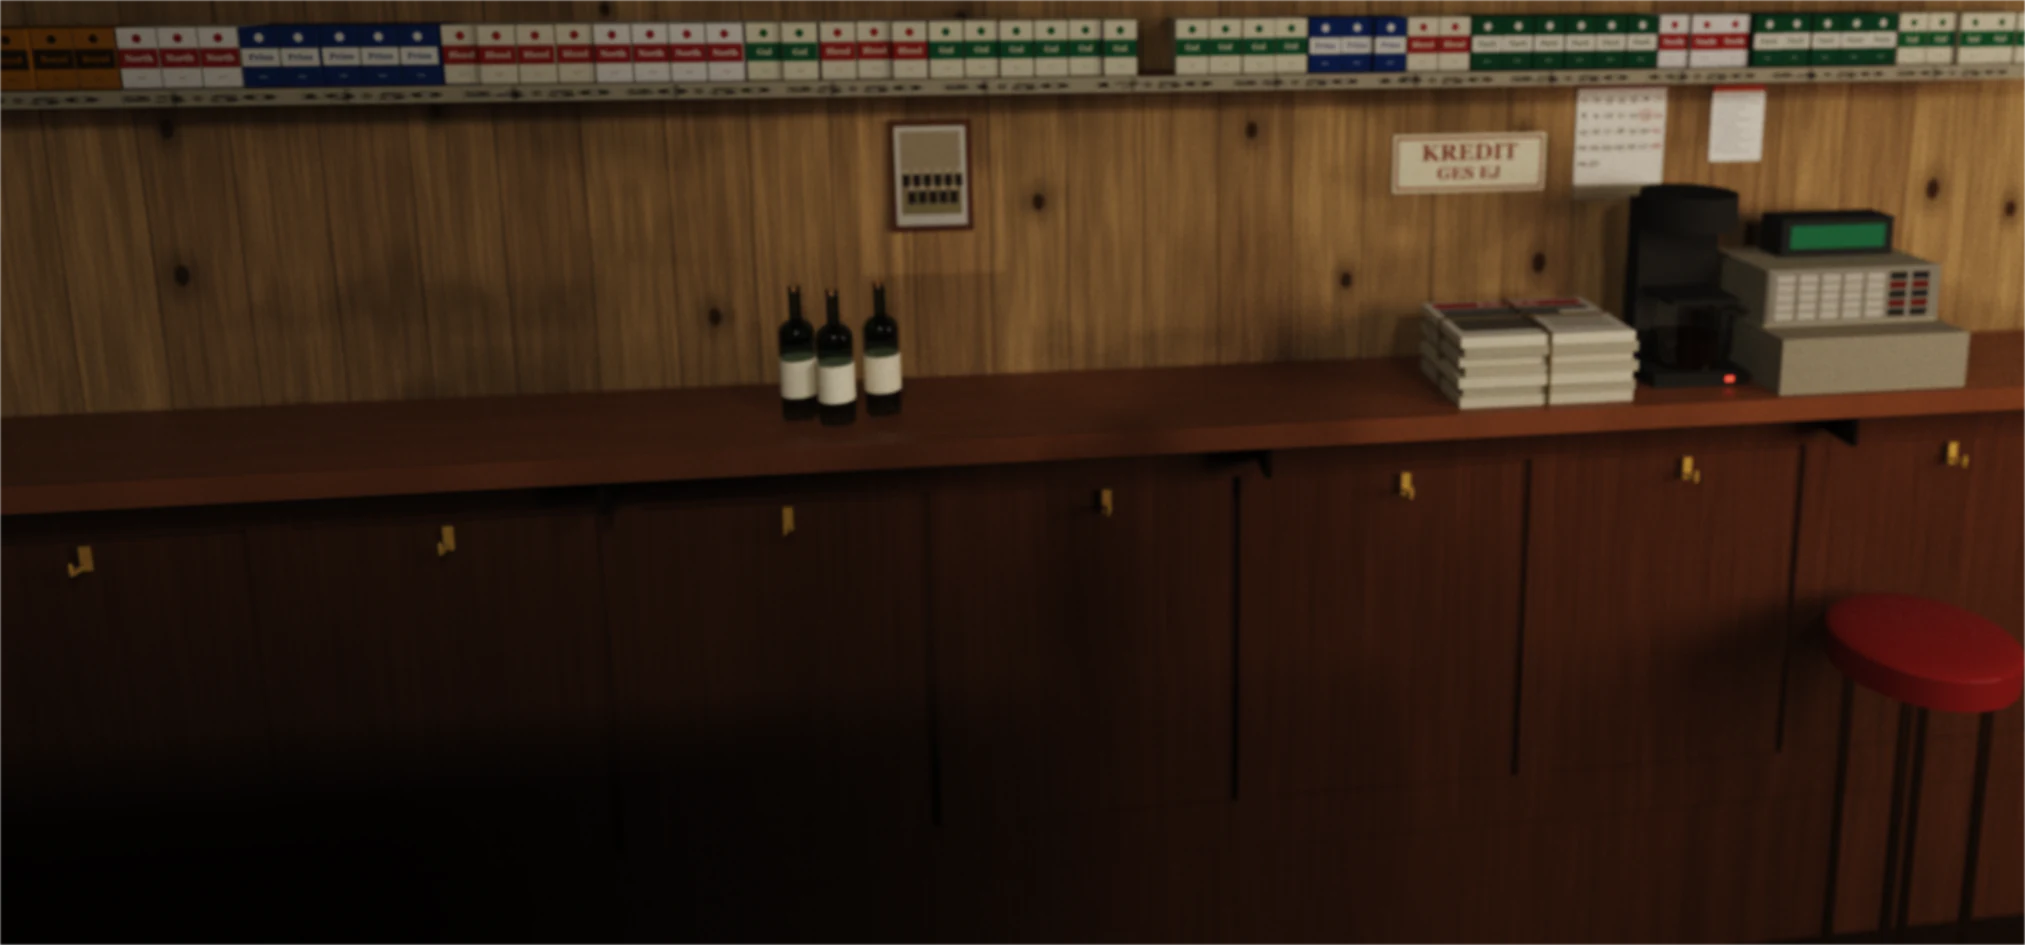
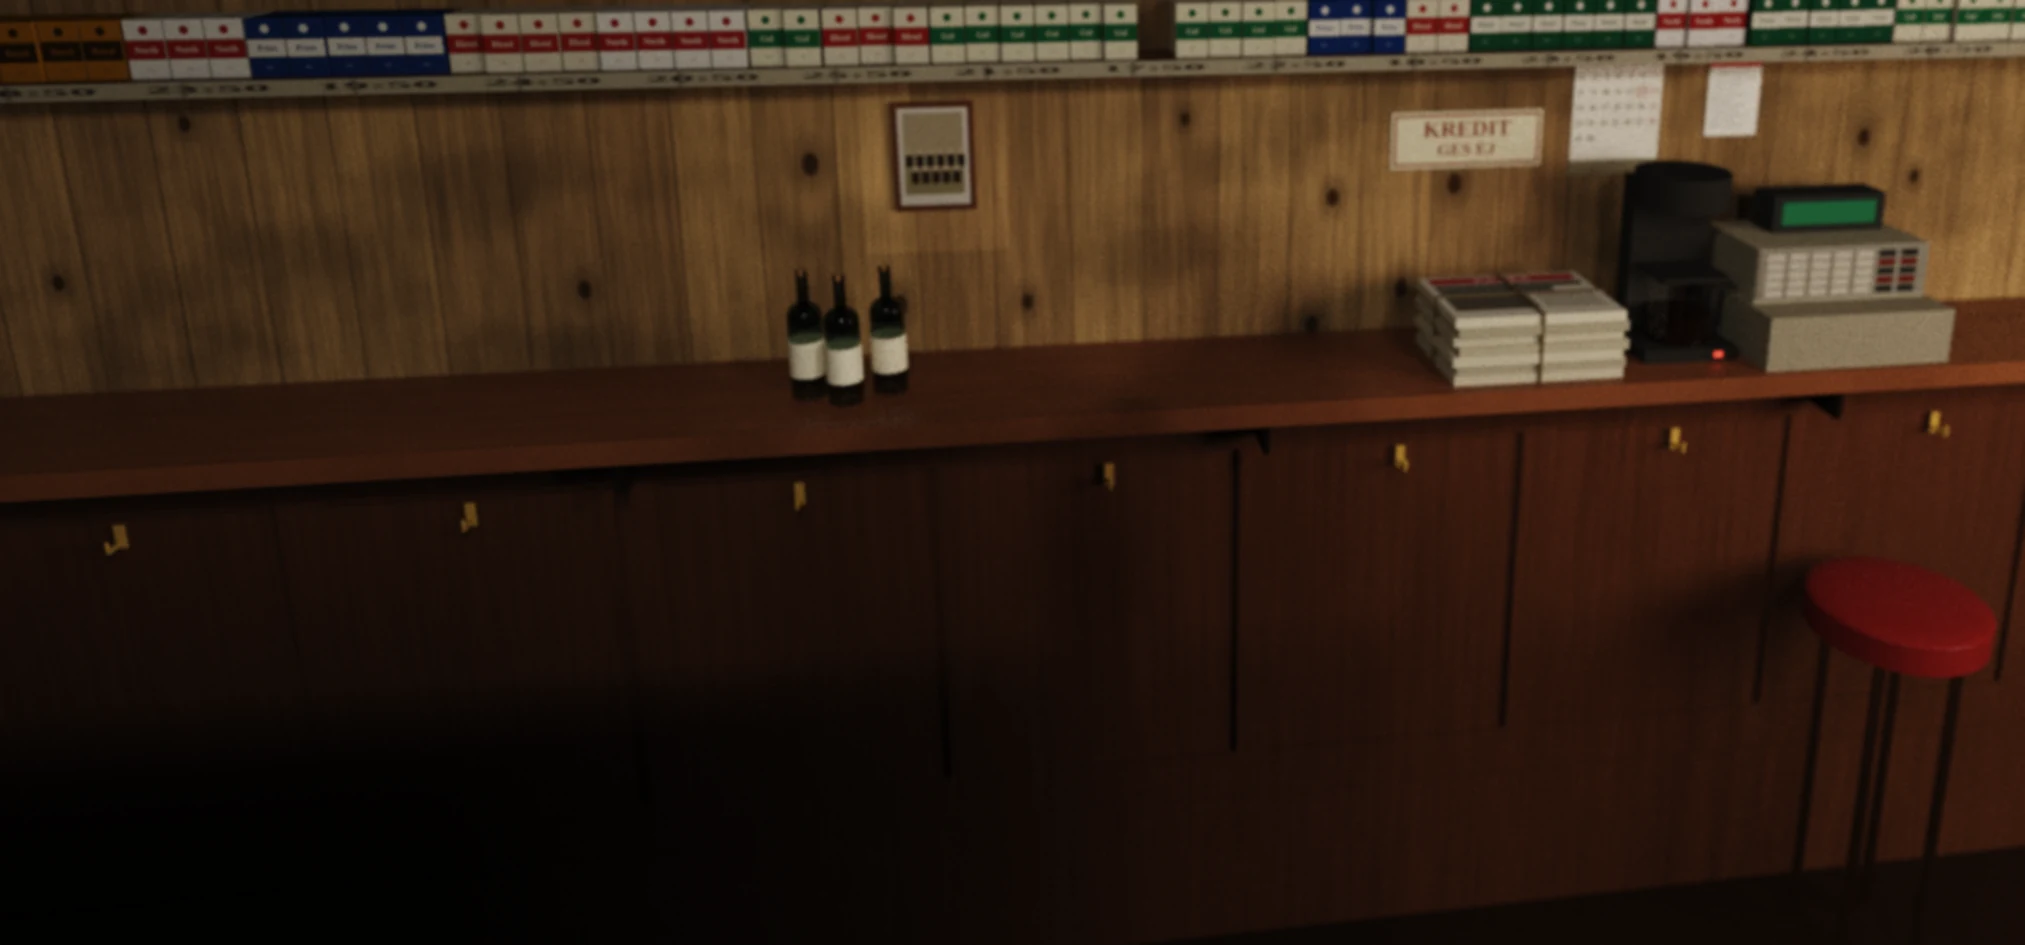
Väggen bakom Hasse Backe ombakad för den högre kameran, och samma kavajton i rummet
Väggbilderna (bred, med och utan lysrör och dagsljus, och på höjden med lysrör och dagsljus) är
bakade om från kameran som nu står högre och lutar 14°. Den sista, på höjden utan lysrör, följer
i en egen commit.

I rummet ses ärmarnas sida bort från barens lampor, och kavajen blev nästan svart. Ärmens tyg får
mer ljus där (bord.tyg, 1,35 mot 1 i baren), så att det är samma koksgråa kavaj som framifrån, och
underarmarna är lika vida som i baren.

Claude-Session: https://claude.ai/code/session_016CdqmAQxAUfby7NMxRQL4S

diff --git a/public/rum-hasse-arm.js b/public/rum-hasse-arm.js
@@ -91,6 +91,9 @@ bool underBord(vec3 w) {
 `;
 // (utan disk döljs ingenting, och det är rummets ljus utan baren)
 const BUTIK_AV = { value: 0 };
+// Kavajens tyg i ljuset (uTyg i ARM_F): 1 i baren. Från rummet ses ärmarnas sida bort från lamporna, och då
+// sätter bord.tyg tonen, så att det är samma gråa kavaj som framifrån.
+const TYG = { value: 1 };
 // Ljuset räknas mot figurens kamera (VY). Ses samma sak från ett annat håll, som hans händer från rummet
 // (rum-hasse-hand.js), ger bord.vy riktningen mot det ögat, så att kantljuset hamnar där det ska.
 const VY_RAD = /const vec3 VY = vec3\([^)]*\);/;
@@ -415,6 +418,7 @@ varying vec2 vUv; varying vec3 vN, vN0, vW; varying float vS, vI, vVeck;
 void main() { vUv = uv; vN = normal; vN0 = aN0; vS = aS; vI = aI; vVeck = aVeck; vW = position; gl_Position = projectionMatrix * viewMatrix * vec4(position, 1.); }`;
 const ARM_F = `precision highp float;
 uniform sampler2D foto;
+uniform float uTyg;
 varying vec2 vUv; varying vec3 vN, vN0, vW; varying float vS, vI, vVeck;
 ${LJUS}
 ${BORD_GLSL}
@@ -428,7 +432,7 @@ void main() {
   // remsan är utjämnad: skuggorna kommer från ljuset, vecken från formen och fotot (mjukare, för armen
   // ligger inte som i fotot)
   c.rgb = .135 + (c.rgb - .135) * .62;
-  vec3 ut = c.rgb * ljus(n) * 1.14;
+  vec3 ut = c.rgb * ljus(n) * 1.14 * uTyg;
   vec3 e = normalize(cameraPosition - vW);
   // ylle: ljuset fastnar i luddet där tyget vänder sig bort, och vecken skuggar sig själva
   float gr = 1. - clamp(dot(n, e), 0., 1.);
@@ -513,7 +517,7 @@ export function byggArm(scen, sida, foto, modell, vidd = 1, bord = ingenBord()) 
   g.setAttribute('aVeck', new THREE.BufferAttribute(vk, 1));
   g.setIndex(ix);
   // (dubbelsidig: genom ärmslutet syns insidan)
-  const rorM = new THREE.ShaderMaterial({ uniforms: { foto: { value: foto }, uBord: bord, uButik: bord.butik || BUTIK_AV, uDag: bord.dag || DAG, uLys: bord.lys || LYS }, vertexShader: ARM_V, fragmentShader: medVy(ARM_F, bord), transparent: true, depthWrite: true, side: THREE.DoubleSide, blending: THREE.CustomBlending, blendSrc: THREE.OneFactor, blendDst: THREE.OneMinusSrcAlphaFactor });
+  const rorM = new THREE.ShaderMaterial({ uniforms: { foto: { value: foto }, uTyg: bord.tyg || TYG, uBord: bord, uButik: bord.butik || BUTIK_AV, uDag: bord.dag || DAG, uLys: bord.lys || LYS }, vertexShader: ARM_V, fragmentShader: medVy(ARM_F, bord), transparent: true, depthWrite: true, side: THREE.DoubleSide, blending: THREE.CustomBlending, blendSrc: THREE.OneFactor, blendDst: THREE.OneMinusSrcAlphaFactor });
   const ror = new THREE.Mesh(g, rorM);
   ror.frustumCulled = false;
   // skjortans manschett: ett rör med en rundad kant, lite plattare som handleden (handflatan åt z)

diff --git a/public/rum-hasse-hand.js b/public/rum-hasse-hand.js
@@ -68,6 +68,8 @@ export async function armen(plan, { hand: HAND, kopp: KOPP, pr = 1.5, ljus = nul
   const bord = {
     value: new THREE.Vector4(DK.n[0], DK.n[1], DK.c, DK.Y), butik: { value: 1 },
     dag: { value: new THREE.Vector4(...l.c.map((x) => x * l.f * 0.8), l.dag) }, lys: { value: new THREE.Vector4(0.587, 0.593, 0.606, 0.75) },
+    // (ärmarna ses från sidan bort från barens lampor: samma gråa kavaj som i baren, rum-hasse-arm.js)
+    tyg: { value: 1.35 },
   };
   const S = new THREE.Scene();
   // Skuggorna på pulten under händerna och underarmarna, som i baren (byggSkugga): på diskens ovansida runt dem.
@@ -97,7 +99,7 @@ export async function armen(plan, { hand: HAND, kopp: KOPP, pr = 1.5, ljus = nul
   cam.position.copy(OGA);
   // (ljuset ses från det ögat, rum-hasse-arm.js)
   bord.vy = OGA.clone().sub(MITT).normalize().toArray();
-  const A = byggArm(S, 1, foto, modell, 1, bord);
+  const A = byggArm(S, 1, foto, modell, 0.94, bord);
   const B = byggArm(S, -1, foto, modell, 1, bord);
   lage.A.X = A;
   lage.B.X = B;

diff --git a/README.md b/README.md
@@ -4670,7 +4670,9 @@ framkanten `pult-kant.webp`, inte i telefonen på höjden där pulten fortsätte
 rummets kamera ([scripts/rum/pult.mjs](scripts/rum/pult.mjs)), och ringarna ritas ovanpå när rum-pult.js är
 hämtad (`ringar` i rum.js). Rummets kamera är ett öga vid pulten som ser mot fönstren, med horisonten och
 flyktpunkten där pultens bild alltid har haft dem: bortre kanten ligger kvar på y = 650 och kanten mot en på
-984, och hörnet hamnar längst till vänster, där kaffet står på hörnet som i hans bild. I rummet är ljuset
+984, och hörnet hamnar längst till vänster, där kaffet står på hörnet som i hans bild. Framkanten ligger alltså
+precis vid rummets nedre kant: i ett fönster med scenens form (16:10) hamnar den strax nedanför och syns först i
+högre fönster. I rummet är ljuset
 lysrörets och dagens, svalare än barens lampor och lite ljusare, och rummets egna lager ovanpå är räknade med,
 så att träet har samma dämpade bruna som framför honom och inte är orange. Förut var pulten i rummet en målad bild
 med plankor som gick mot en, mer orange, utan hörn, med ringarna utspridda för sig, en list i aluminium mot en och
@@ -4727,7 +4729,9 @@ också läser), i figurens värld och med samma disk, så att fingrarna lägger 
 manschett och hud, och samma ljus som i baren (lysröret tänt och dagsljuset efter klockan och vädret; på natten
 mörknar rummet självt). De ses i rummets blickriktning, mot fönstren, lika långt bort och lika mycket uppifrån
 (33°) som från ögat i rummet (`RUM` i rum-pult.js), och kantljuset räknas mot det ögat (`vy`), inte mot
-barens kamera: annars blev ärmarnas sidor varmt bruna. Bilden flyttas dit där kaffet och notan ligger, så
+barens kamera: annars blev ärmarnas sidor varmt bruna. Från rummet ses också ärmarnas sida bort från barens
+lampor, och den blev nästan svart; ärmens tyg får därför mer ljus i rummet (`bord.tyg`, 1,35 mot 1 i baren), så
+att det är samma koksgråa kavaj som framifrån. Underarmarna är lika vida som i baren. Bilden flyttas dit där kaffet och notan ligger, så
 att underarmarna kommer in från bildens vänstra kant, den vänstra snett uppifrån över pultens bakre kant och den
 högra under den, med armbågarna och axlarna utanför bilden. Under händerna och underarmarna ligger samma skuggor
 som i baren (`byggSkugga`), med en tät, mörk kontaktskugga där händerna ligger an mot pulten. Det är bara den
@@ -5322,8 +5326,8 @@ pennan i 1440 × 900, vilan, klunken och talet i telefonen (412 × 915), och han
 Samma pult och samma armar (2026-11-08) är provade i headless Chromium med mjukvarugrafik, i hela sidan med
 `?rum-kval=0` (rummets fulla steg, som på en Mac): rummet och hans bild i 1440 × 900 med täthet 1 och 2, och
 telefonen på höjden (390 × 844). Färgerna är mätta i bilderna: pulten i rummet längst bak 24° nyans, 25 % mättnad
-och 37 % ljushet, och disken framför honom 24–25°, 30 % och 36 %; ärmen, manschetten och huden i rummet mätta i
-handens duk före rummets lager. Kamerahöjden valdes bland fyra renderade varianter (ögat 31, 39, 45 och 54 cm över
+och 37 % ljushet, och disken framför honom 24–25°, 30 % och 36 %; ärmens tyg på skärmen i rummet (54, 50, 47)
+mot i baren (59, 53, 48), och huden (211, 154, 126) mot (219, 153, 124). Kamerahöjden valdes bland fyra renderade varianter (ögat 31, 39, 45 och 54 cm över
 hans), och väggbildens täckning är räknad för fönster från 844 × 390 till 3440 × 1440 och på höjden från 360 × 780
 till 1000 × 1000 (minst 11 bildpunkter till godo). Inte provat i Safari eller på en riktig telefon.
 
